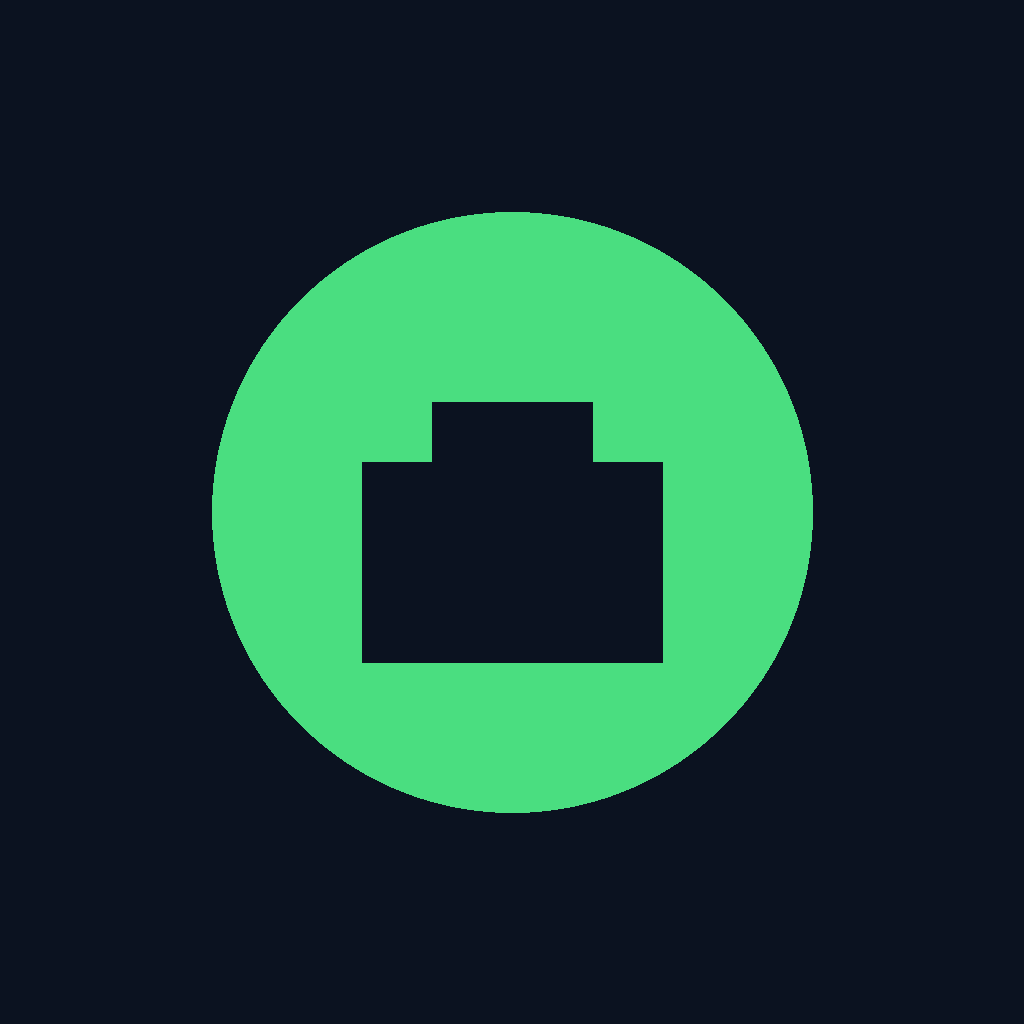
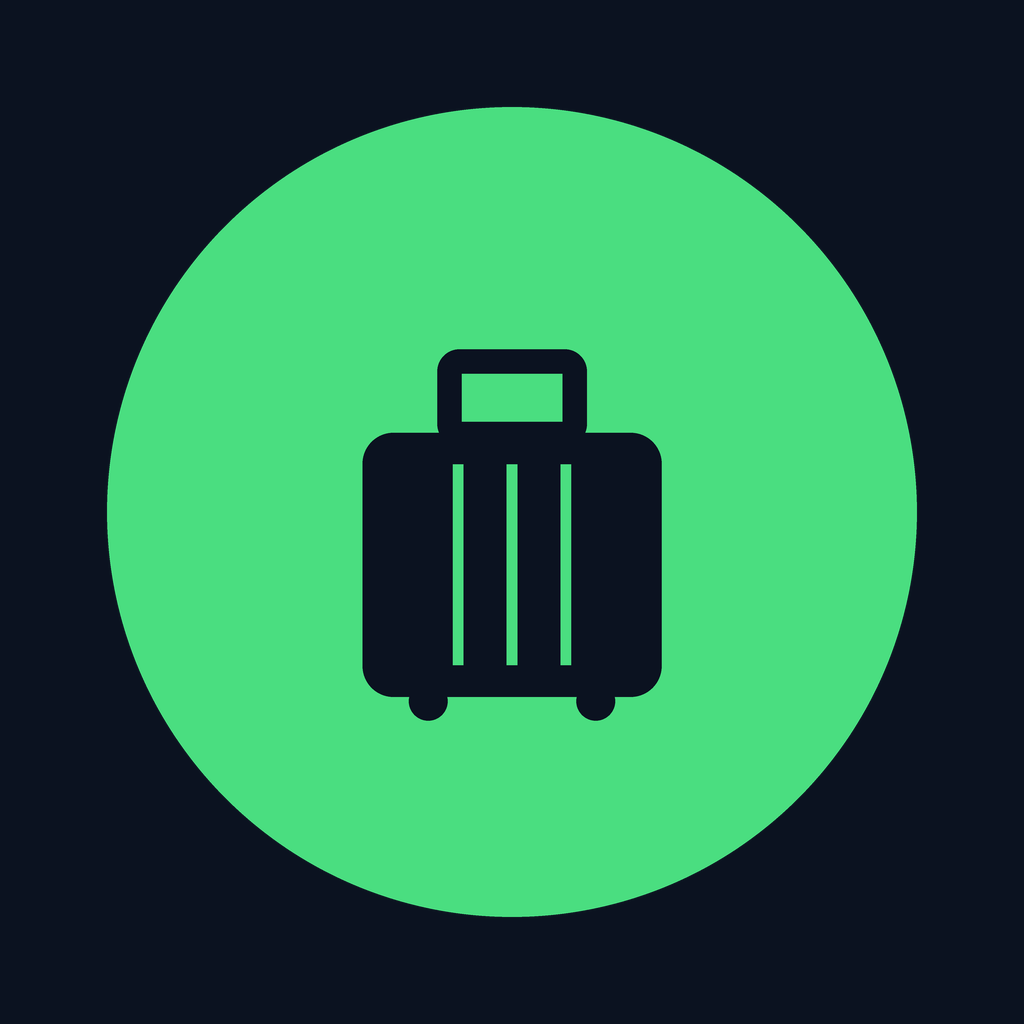
added a splash screen and fixed AI feature issue

Changed region(s): [[0.0938, 0.0938, 0.9062, 0.9062], [0.3438, 0.3438, 0.6562, 0.7188]]

diff --git a/app/_layout.tsx b/app/_layout.tsx
@@ -10,9 +10,7 @@ import { initNotificationChannel } from "@/services/reminderService";
 // expo-splash-screen plugin in app.json) visible past its default auto-hide
 // point, until the app has actually finished loading below. This is the
 // officially-documented usage for this specific API — calling it here, at
-// module scope, before the component even renders — unlike the earlier
-// bug we hit with expo-notifications, where a native call at import time
-// was accidental and crashed. This one is meant to run this early.
+// module scope, before the component even renders.
 SplashScreen.preventAutoHideAsync().catch(() => {
   // Safe to ignore — e.g. if Fast Refresh calls this a second time.
 });
@@ -40,8 +38,7 @@ export default function RootLayout() {
   }, [isHydrated, currentUser]);
 
   // Safety net: if something unexpected stalls hydration/profile creation,
-  // never leave the user stuck behind the splash forever. Forces the splash
-  // to hide and the real UI to render after 5s regardless.
+  // never leave the user stuck behind the splash forever.
   const [forceReveal, setForceReveal] = useState(false);
   useEffect(() => {
     const timer = setTimeout(() => {
@@ -55,8 +52,6 @@ export default function RootLayout() {
   }, [isHydrated, currentUser]);
 
   if ((!isHydrated || !currentUser) && !forceReveal) {
-    // Render nothing — the native splash screen is still covering the
-    // screen at this point, so there's nothing for the user to see here.
     return null;
   }
 